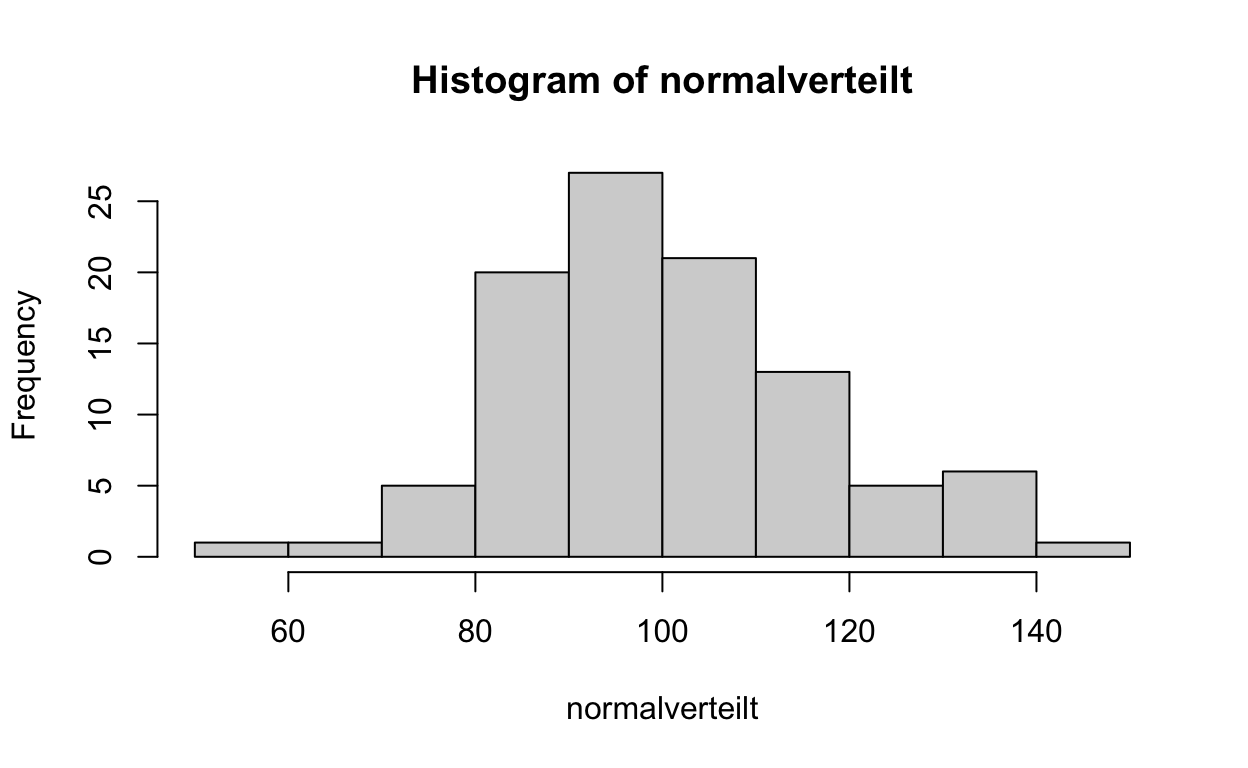
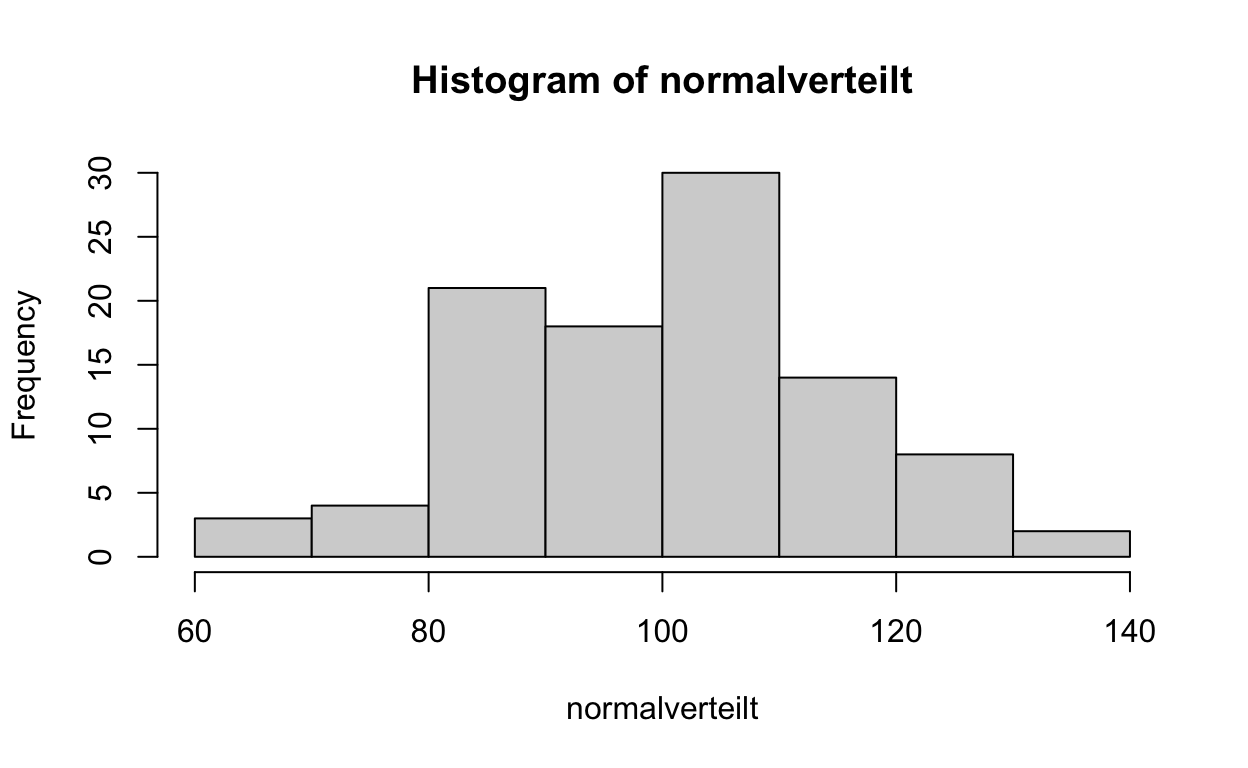
intro added to variabes & fucntions blog

diff --git a/docs/Basic_R_VariabelsFunctions.html b/docs/Basic_R_VariabelsFunctions.html
@@ -2317,6 +2317,8 @@ Statistik II
 <div style="border: 5px solid;margin: auto;width: 50%;padding: 10px;text-align:center;background:yellow;font-family: curier;font-size:20px">
 Deutsch
 </div>
+<p>In diesem Blog werden wir uns mit zwei grundlegenden Konzepten befassen, die die Grundlage jeder Programmiersprache bilden: Objekte und Funktionen.</p>
+<p><strong>Objekte</strong> sind die Behälter, die Informationen speichern und es uns ermöglichen, Daten zu speichern und zu manipulieren, während <strong>Funktionen</strong> die Werkzeuge sind, mit denen wir spezifische Aufgaben effizient ausführen können.</p>
 <p style="font-family:monospace;color:red;font-size:280%">
 <br><br> Wie Funktioniert R?
 </p>
@@ -2699,8 +2701,8 @@ Sie die folgende Argumente:</p>
 <div class="sourceCode">
 <pre class="sourceCode r"><code class="sourceCode r"><span><span class='fu'><a href='https://rdrr.io/r/stats/Normal.html'>rnorm</a></span><span class='op'>(</span>n <span class='op'>=</span> <span class='fl'>10</span>, mean <span class='op'>=</span> <span class='fl'>0</span>, sd <span class='op'>=</span> <span class='fl'>1</span><span class='op'>)</span> </span></code></pre>
 </div>
-<pre><code> [1]  2.5565600  0.4716185 -0.8291446  1.5652923  1.5963419  0.8913716
- [7] -0.7083839  2.2540098 -2.3471302 -0.7878113</code></pre>
+<pre><code> [1] -0.1430527 -0.1493555  0.1311143  0.2979097 -0.2350695 -0.6134804
+ [7] -0.5472212 -0.2270526  0.5924612 -0.7510687</code></pre>
 </div>
 <ol start="3" type="1">
 <li>Die Funktion hist() erstellt ein Histogramm aus dem Vektor normalverteilter Variablen. Dies ist ein Beispiel dafür, wie Funktionen auch Grafiken aus Objekten generieren können.</li>
